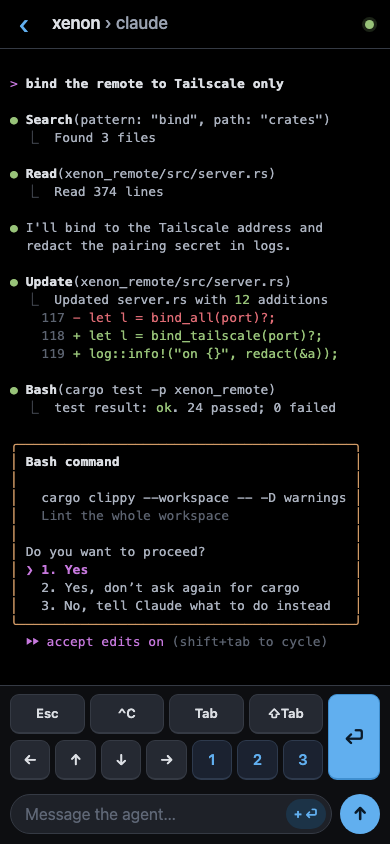
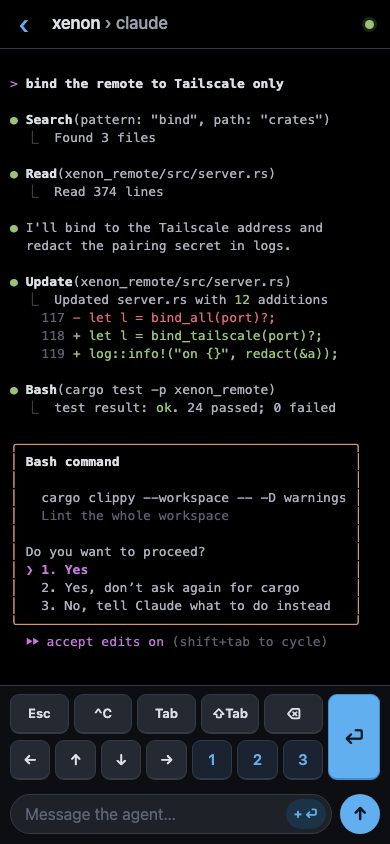
Phone remote: backspace key, empty-field backspace, session-colored bottom strip.
Adds a hold-to-repeat backspace key, forwards Backspace from the empty
message field to the terminal, and paints the root background in the
input-bar color during sessions so iOS 26's short Home Screen viewport
no longer leaves a white strip.

diff --git a/crates/xenon_remote/src/page.html b/crates/xenon_remote/src/page.html
@@ -43,6 +43,8 @@
 html, body { margin:0; height:100%; background:var(--canvas); color:var(--text); font-family:var(--ui); line-height:1.4; overflow:hidden; }
 button { font:inherit; color:inherit; background:none; border:0; padding:0; margin:0; cursor:pointer; touch-action:manipulation; }
 button:disabled { cursor:default; }
+/* iOS 26 Home Screen apps report a viewport one status bar short; the strip below #app shows the root background. */
+html.in-session { background:var(--chrome); }
 [hidden] { display:none !important; }
 
 #app { position:fixed; left:0; right:0; top:var(--app-top, 0px); height:var(--app-h, 100dvh);
@@ -213,6 +215,7 @@ button:disabled { cursor:default; }
           <button type="button" class="k sm" data-key="ctrl-c" aria-label="Control C">^C</button>
           <button type="button" class="k sm" data-key="tab" aria-label="Tab">Tab</button>
           <button type="button" class="k sm" data-key="shift-tab" aria-label="Shift Tab">⇧Tab</button>
+          <button type="button" class="k" data-key="backspace" data-repeat aria-label="Backspace">⌫</button>
         </div>
         <div class="krow">
           <button type="button" class="k" data-key="left" aria-label="Left arrow">←</button>
@@ -383,7 +386,7 @@ const S = {
   want: null, tabTitle: "",
   term: Core.newTerm(), styles: {}, lastUpdate: 0,
   follow: true, histAsked: false, cw: 0, scale: 1, lastFit: null, fitTimer: 0,
-  enterOn: store(KEY.enter) !== "0",
+  enterOn: store(KEY.enter) !== "0", repeat: null,
 };
 
 function $(id) { return document.getElementById(id); }
@@ -532,6 +535,7 @@ function onVisible() {
 function show(view) {
   S.view = view;
   for (const v of ["paired", "code", "list", "terms", "session"]) $("v-" + v).hidden = v !== view;
+  document.documentElement.classList.toggle("in-session", view === "session");
   if (view === "session") scheduleFit(0);
 }
 
@@ -849,6 +853,25 @@ function onKeyPointer(e) {
   if (!btn || btn.disabled) return;
   e.preventDefault();
   sendKeyButton(btn);
+  if ("repeat" in btn.dataset) startRepeat(btn);
+}
+
+function startRepeat(btn) {
+  stopRepeat();
+  S.repeat = setTimeout(function tick() {
+    if (btn.disabled) return stopRepeat();
+    sendKeyButton(btn);
+    S.repeat = setTimeout(tick, 60);
+  }, 400);
+}
+
+function stopRepeat() {
+  clearTimeout(S.repeat);
+  S.repeat = null;
+}
+
+function onMsgKeyDown(e) {
+  if (e.key === "Backspace" && !e.target.value) send({ t: "key", key: "backspace" });
 }
 
 function onKeyClick(e) {
@@ -941,6 +964,8 @@ function wireEvents() {
   const keys = $("keys");
   keys.addEventListener("pointerdown", onKeyPointer);
   keys.addEventListener("click", onKeyClick);
+  for (const end of ["pointerup", "pointercancel", "pointerleave"]) keys.addEventListener(end, stopRepeat);
+  $("msg").addEventListener("keydown", onMsgKeyDown);
   $("ret").addEventListener("pointerdown", (e) => e.preventDefault());
   $("ret").addEventListener("click", () => setEnterOn(!S.enterOn));
   $("send").addEventListener("pointerdown", (e) => e.preventDefault());
